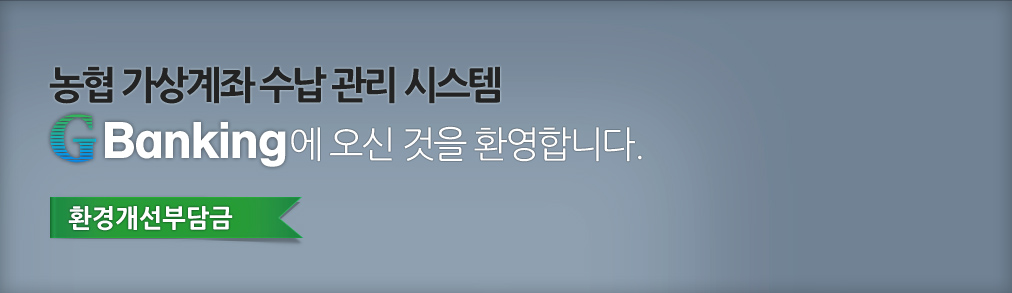
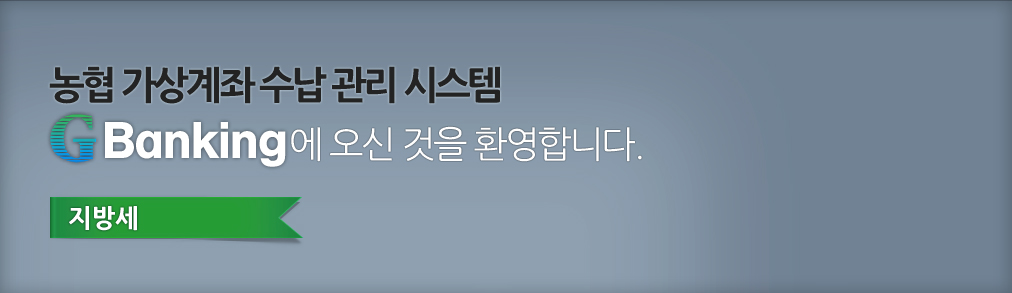
수정

Changed region(s): [[0.0613, 0.7065, 0.2451, 0.7986]]

diff --git a/settlebank/c_green.css b/settlebank/c_green.css
@@ -4,6 +4,9 @@
 .paging a:hover, .paging strong {color:#0e9f33;}
 .button {background-image:url('images/renew/stb_set_green.gif');}
 #idx h1 {background:url('images/renew/idx_g_head.jpg') left top no-repeat;}
+	#idx h1.idx_hs01 {background-image:url('images/renew/idx_hs01.jpg');}
+	#idx h1.idx_hs02 {background-image:url('images/renew/idx_hs02.jpg');}
+	#idx h1.idx_hs03 {background-image:url('images/renew/idx_hs03.jpg');}
 #g_nav h2 {background-image:url('images/renew/stb_set_green.gif');}
 .idx_wadm {background:url('images/renew/stb_set_green.gif') left -280px no-repeat;}
 #g_nav h1 {background:url('images/renew/stb_set_green.gif') left top no-repeat;}
